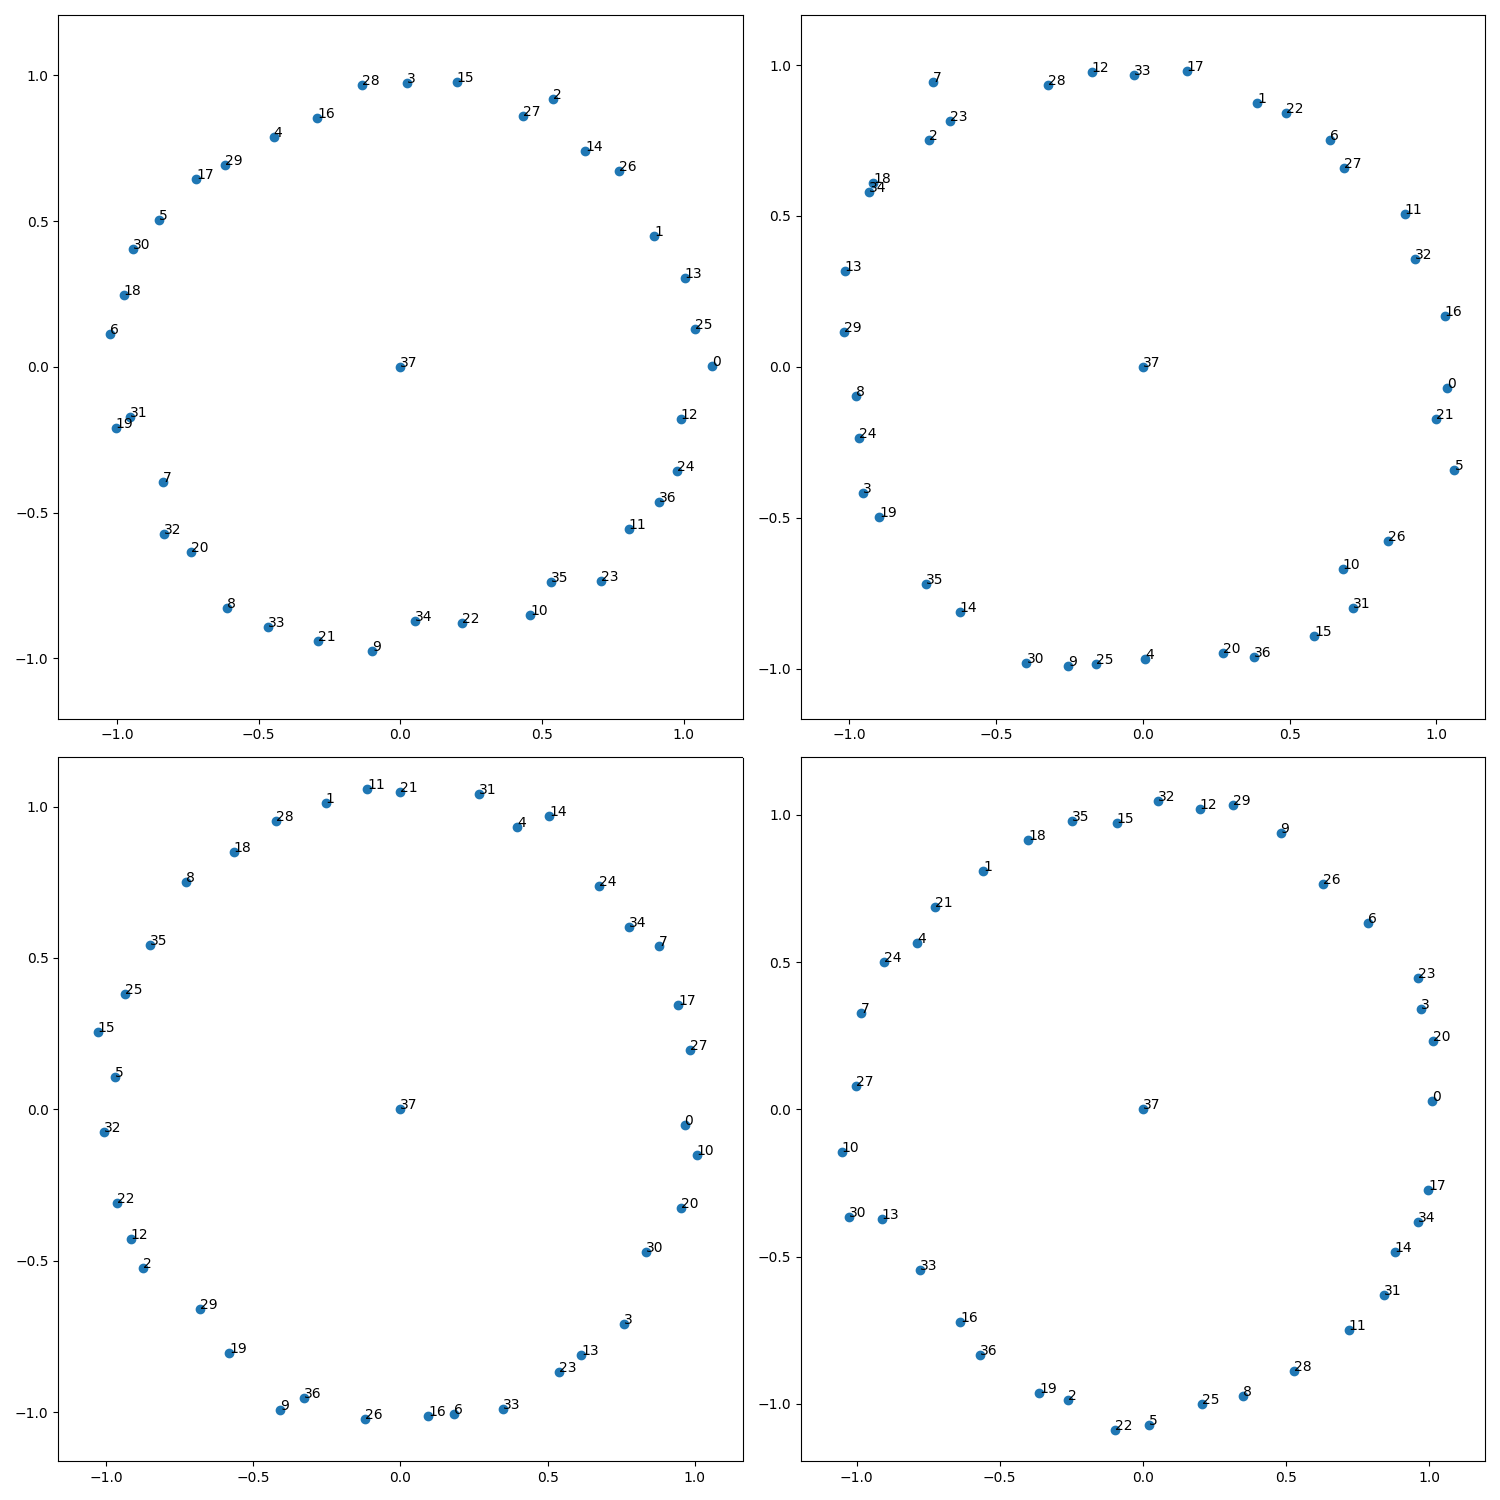
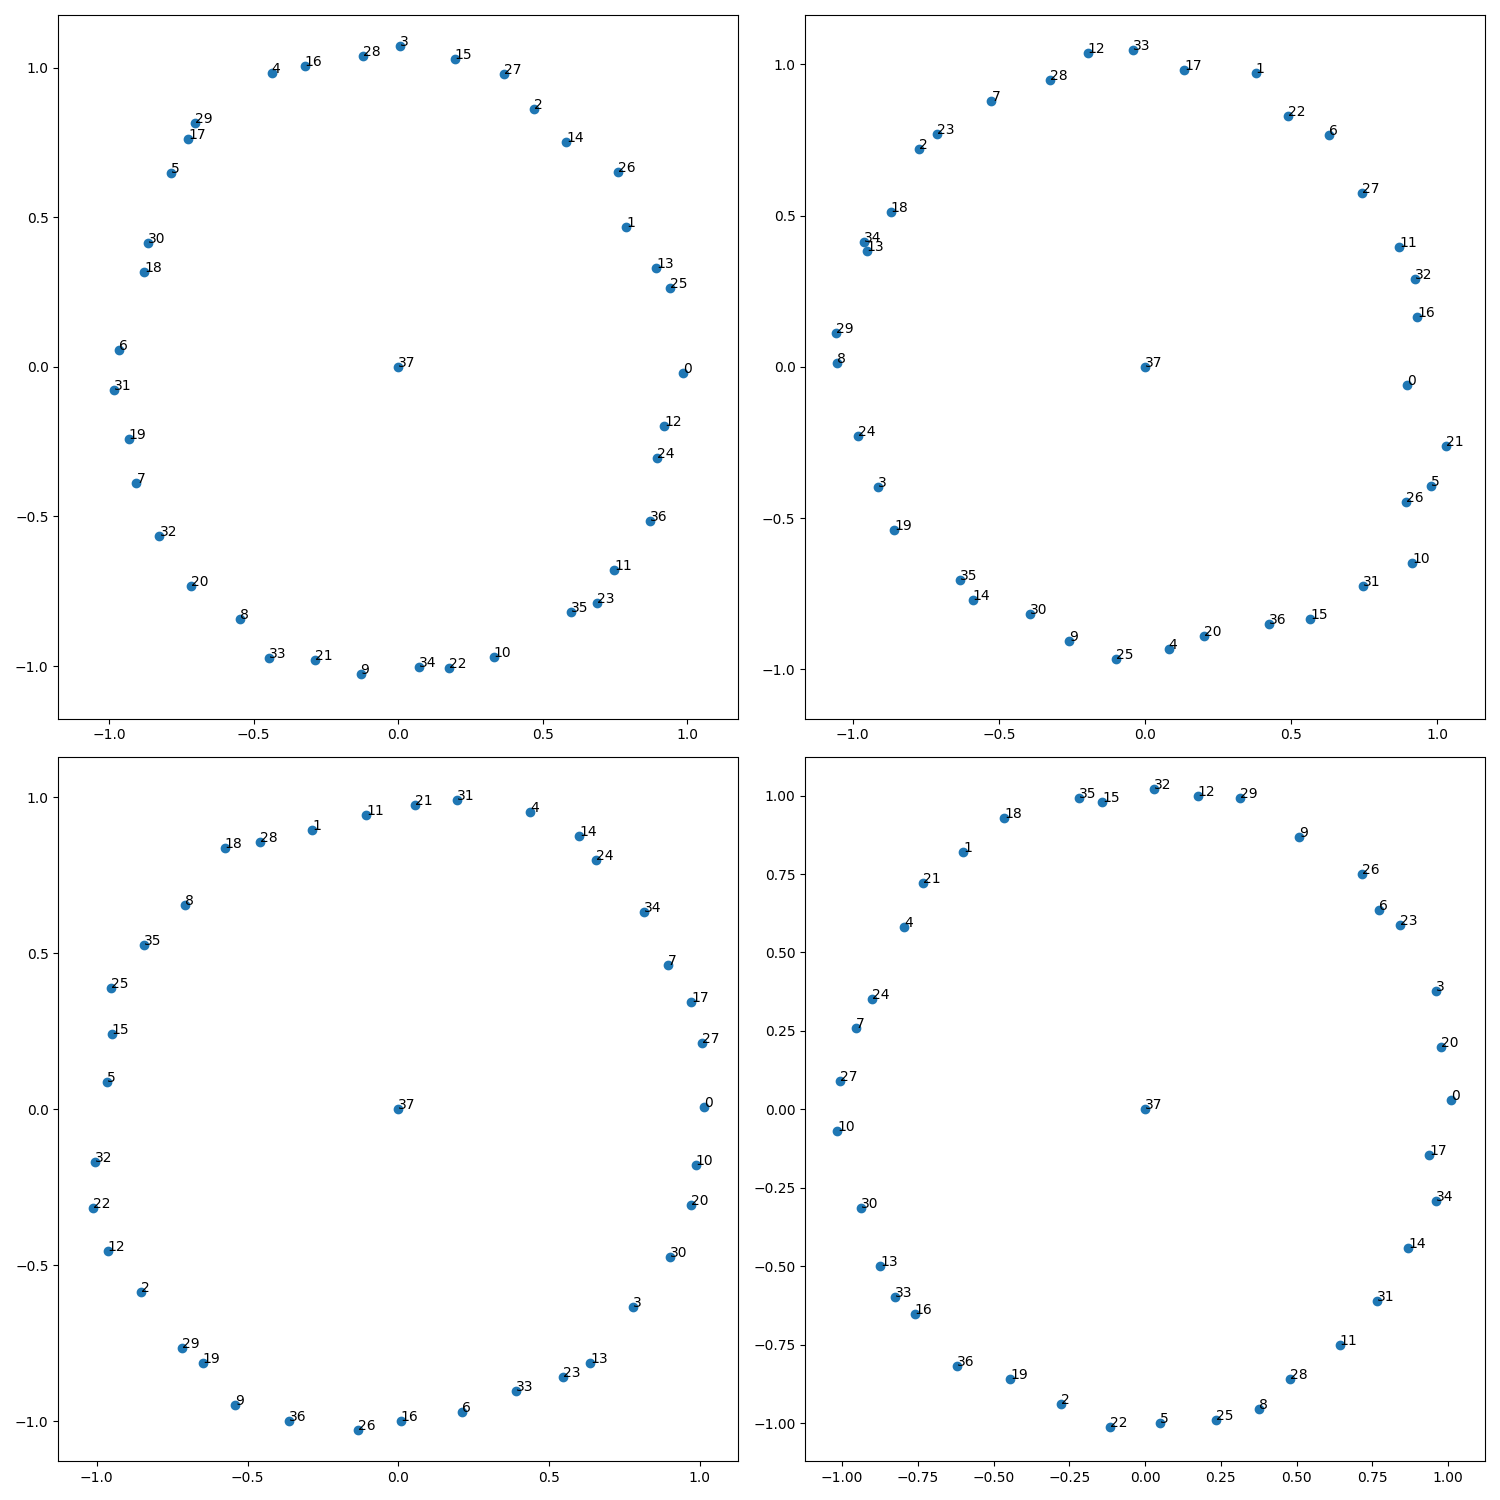
latest

diff --git a/train_in_sphere_modular_addition.py b/train_in_sphere_modular_addition.py
@@ -193,9 +193,9 @@ def main(checkpoint_path = "modular_addition.ckpt"):
     EMBED_DIM = 8
     HIDDEN_DIM = 8
     N_EPOCHS = 10000
-    N_EIGENVECTORS = 30
+    N_EIGENVECTORS = 35
     LAMBDA_SPHERE = 20
-    LAMBDA_ORTH = .1
+    LAMBDA_ORTH = .2
     LR = 0.01
     LR_DECAY = 0.9997
     WEIGHT_REG = 0.005
